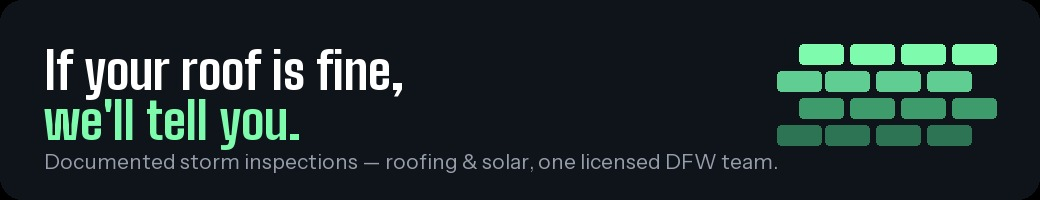
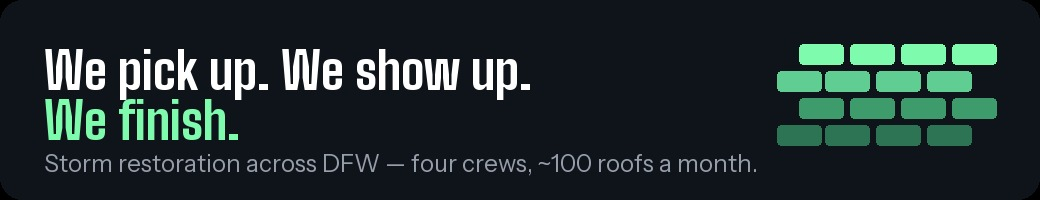
Signature tagline from complaint research: address ghosting + unfinished work (2025 homeowner survey: communication #1, workmanship 25%)

Changed region(s): [[0.0308, 0.24, 0.5231, 0.75], [0.0308, 0.75, 0.7692, 0.87]]

diff --git a/print/email-signature.html b/print/email-signature.html
@@ -8,7 +8,7 @@
 <table cellpadding="0" cellspacing="0" border="0" style="font-family:Arial,Helvetica,sans-serif;color:#0f131a;line-height:1.45;">
   <tr>
     <td style="vertical-align:top;padding-right:16px;">
-      <img src="https://poweredgetx.com/photos/email-logo.png" width="56" height="56" alt="PowerEdge" style="display:block;border:0;width:56px;height:56px;border-radius:14px;">
+      <img src="https://poweredgetx.com/photos/email-logo.png" width="56" height="56" alt="We pick up. We show up. We finish. Storm restoration across DFW — four crews, ~100 roofs a month." style="display:block;border:0;width:56px;height:56px;border-radius:14px;">
     </td>
     <td style="vertical-align:top;">
       <div style="font-size:16px;font-weight:bold;color:#0f131a;">⟨Parker Lee⟩</div>
@@ -25,7 +25,7 @@
   </tr>
   <tr>
     <td colspan="2" style="padding-top:14px;">
-      <a href="https://poweredgetx.com/roof-claim-check?utm_source=email&utm_medium=signature&utm_campaign=honest-verdict">
+      <a href="https://poweredgetx.com/roof-claim-check?utm_source=email&utm_medium=signature&utm_campaign=we-finish">
         <img src="https://poweredgetx.com/photos/email-banner.png" width="500" alt="If your roof is fine, we'll tell you. Documented storm inspections — roofing &amp; solar, one licensed DFW team." style="display:block;border:0;width:500px;max-width:100%;">
       </a>
     </td>
